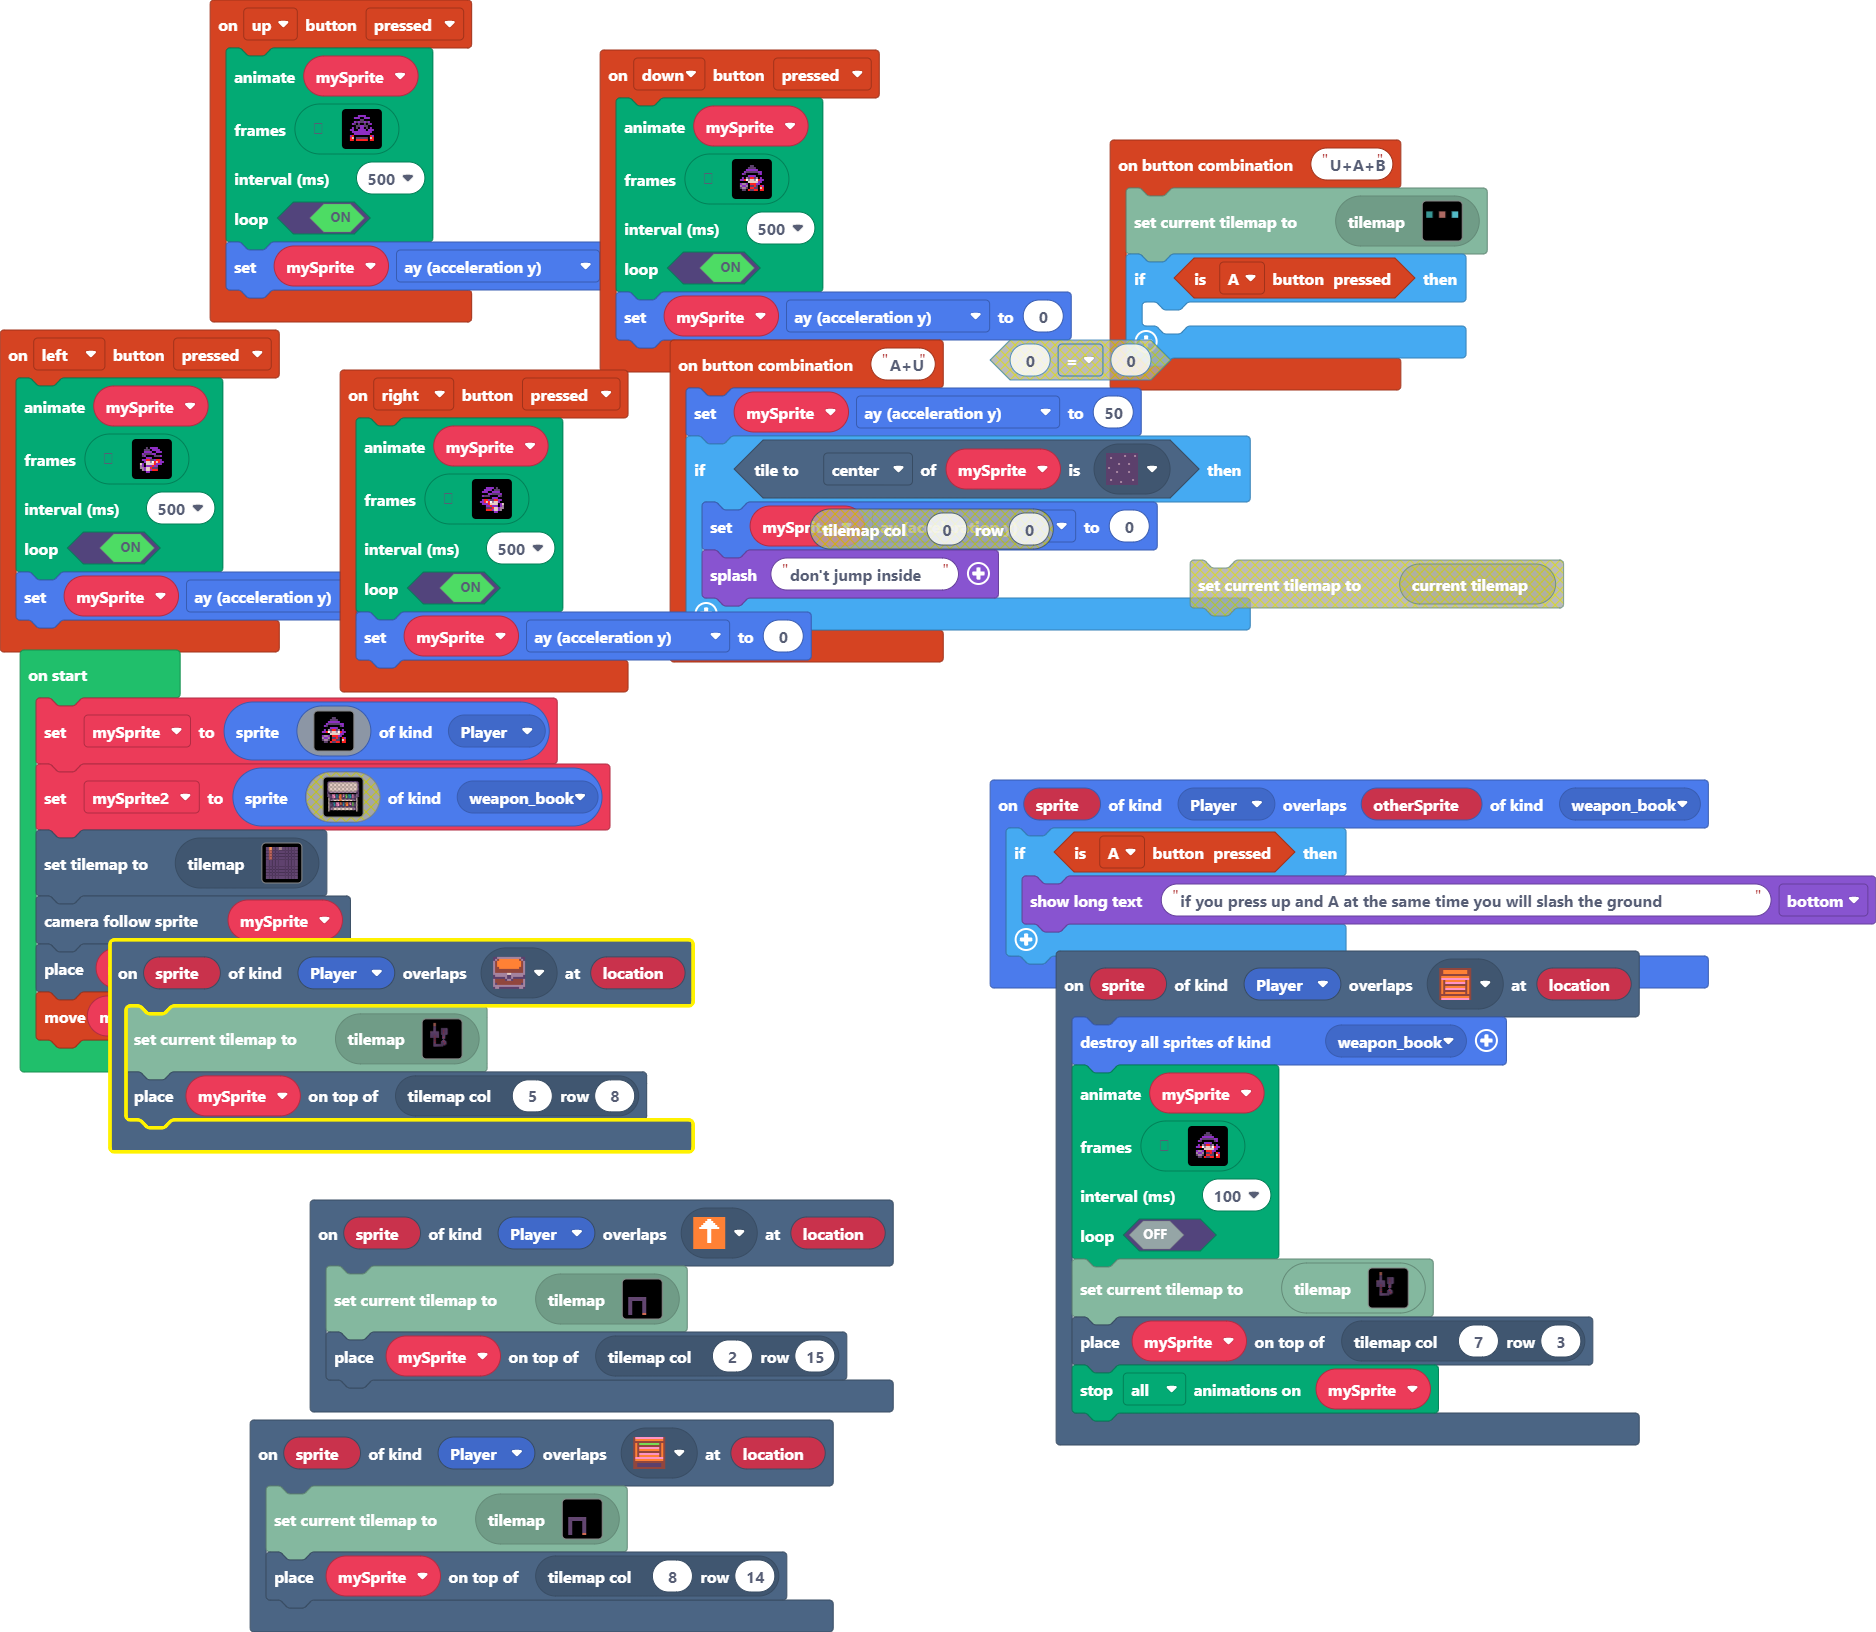
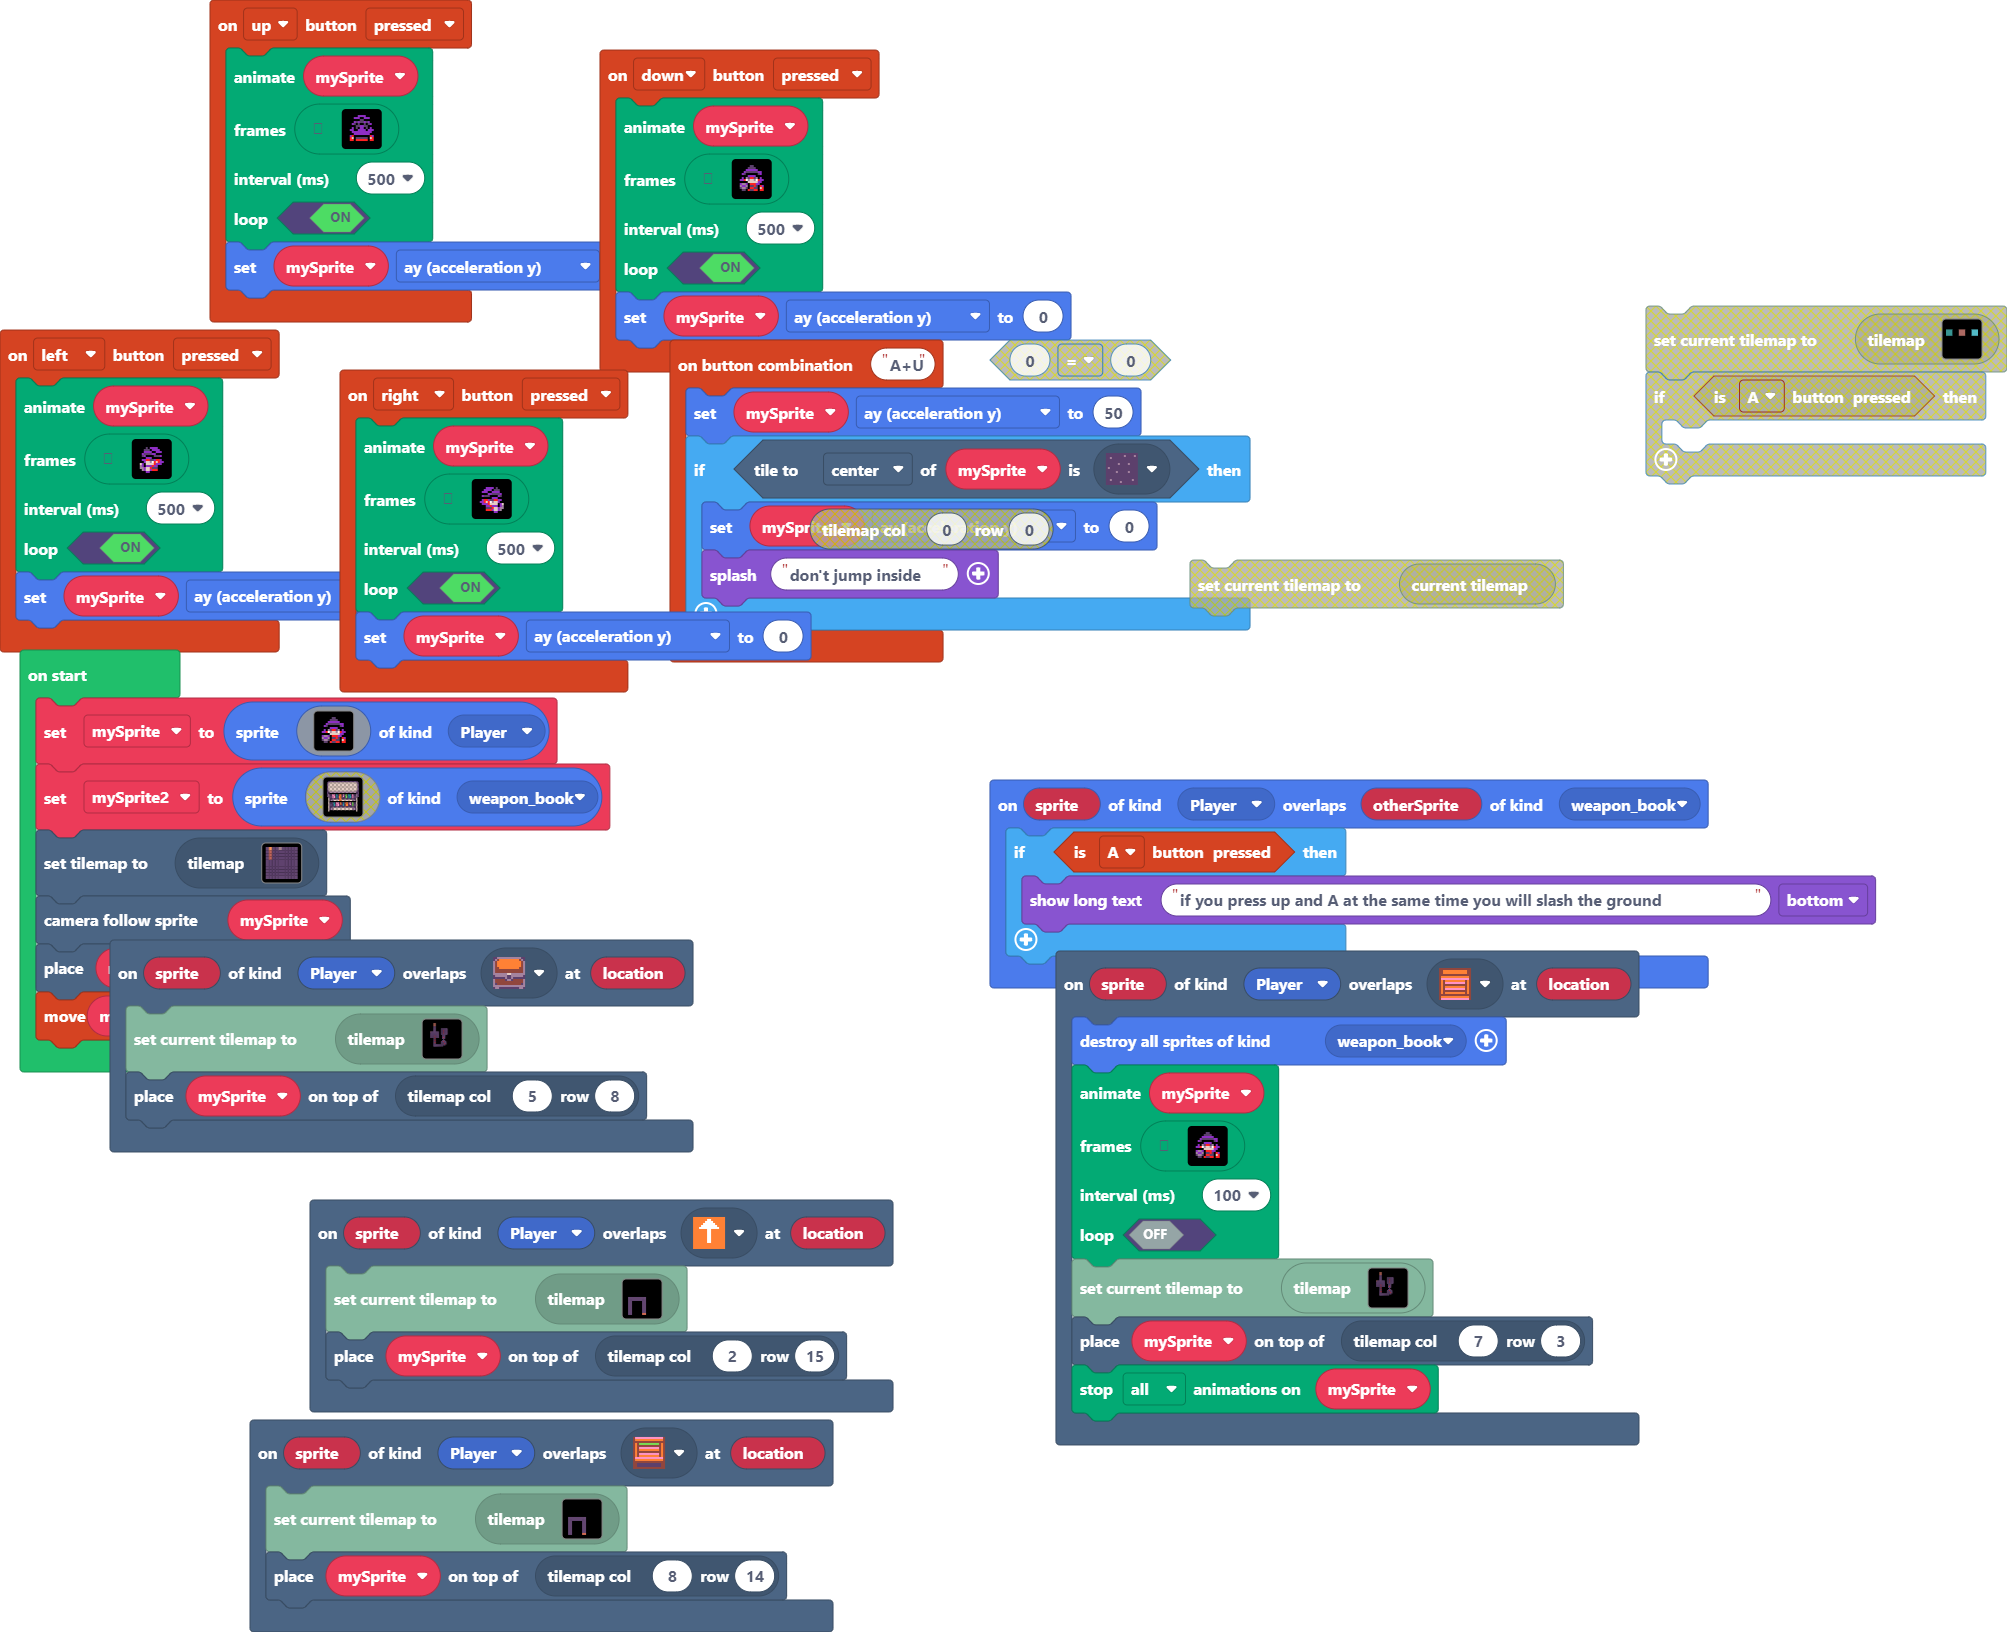
Update main.blocks, main.ts

Changed region(s): [[0.0, 0.0, 1.0, 0.7188], [0.4947, 0.4688, 1.0, 0.9062], [0.1237, 0.7188, 0.4947, 1.0]]

diff --git a/main.ts b/main.ts
@@ -437,12 +437,6 @@ controller.combos.attachCombo("A+U", function () {
         game.splash("don't jump inside")
     }
 })
-controller.combos.attachCombo("U+A+B", function () {
-    tiles.loadMap(tiles.createMap(tilemap`level7`))
-    if (controller.A.isPressed()) {
-    	
-    }
-})
 controller.right.onEvent(ControllerButtonEvent.Pressed, function () {
     animation.runImageAnimation(
     mySprite,
